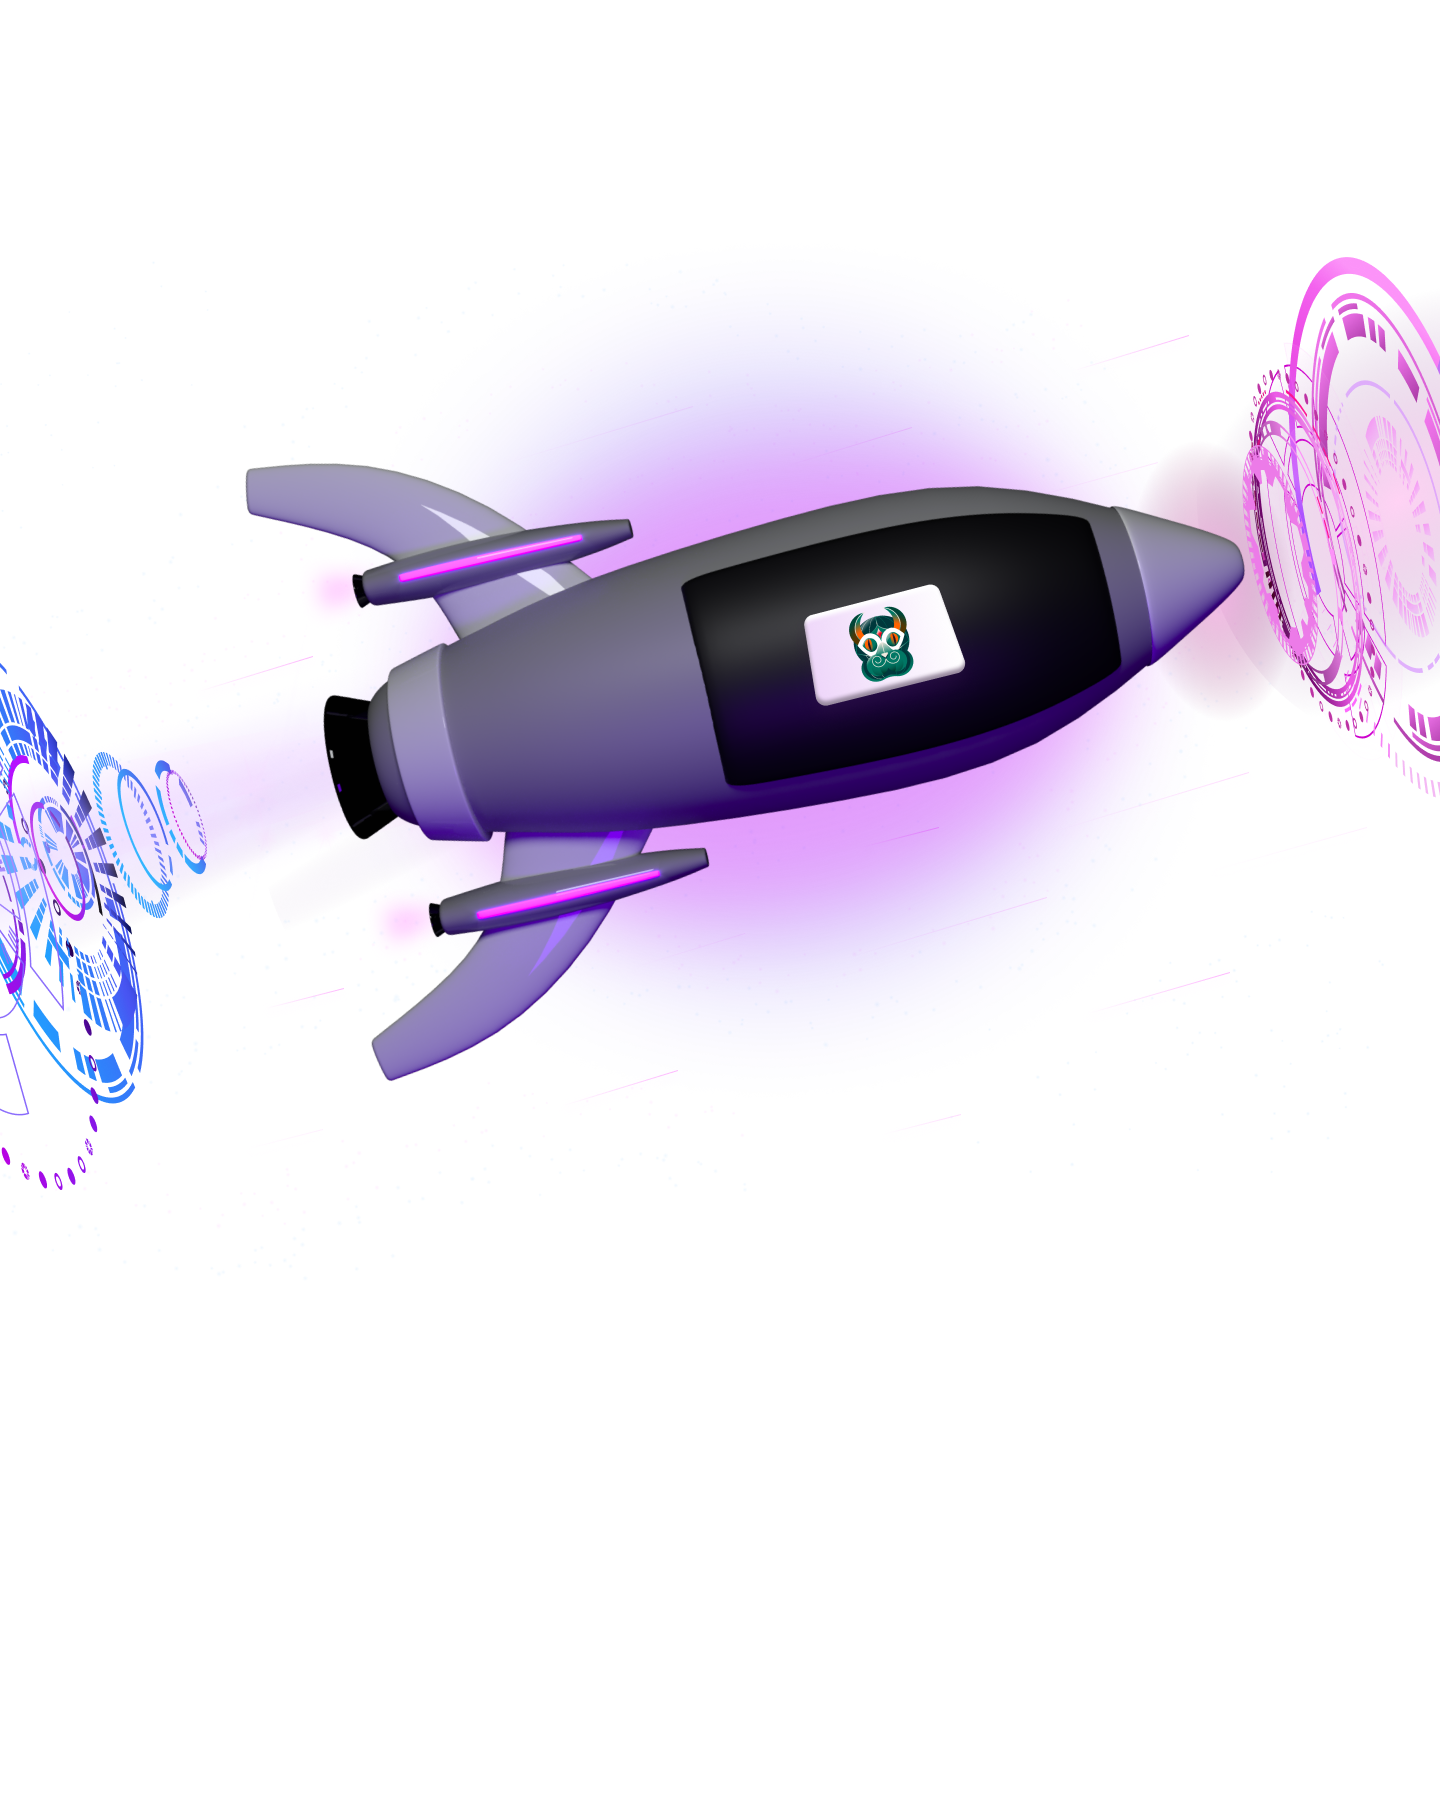
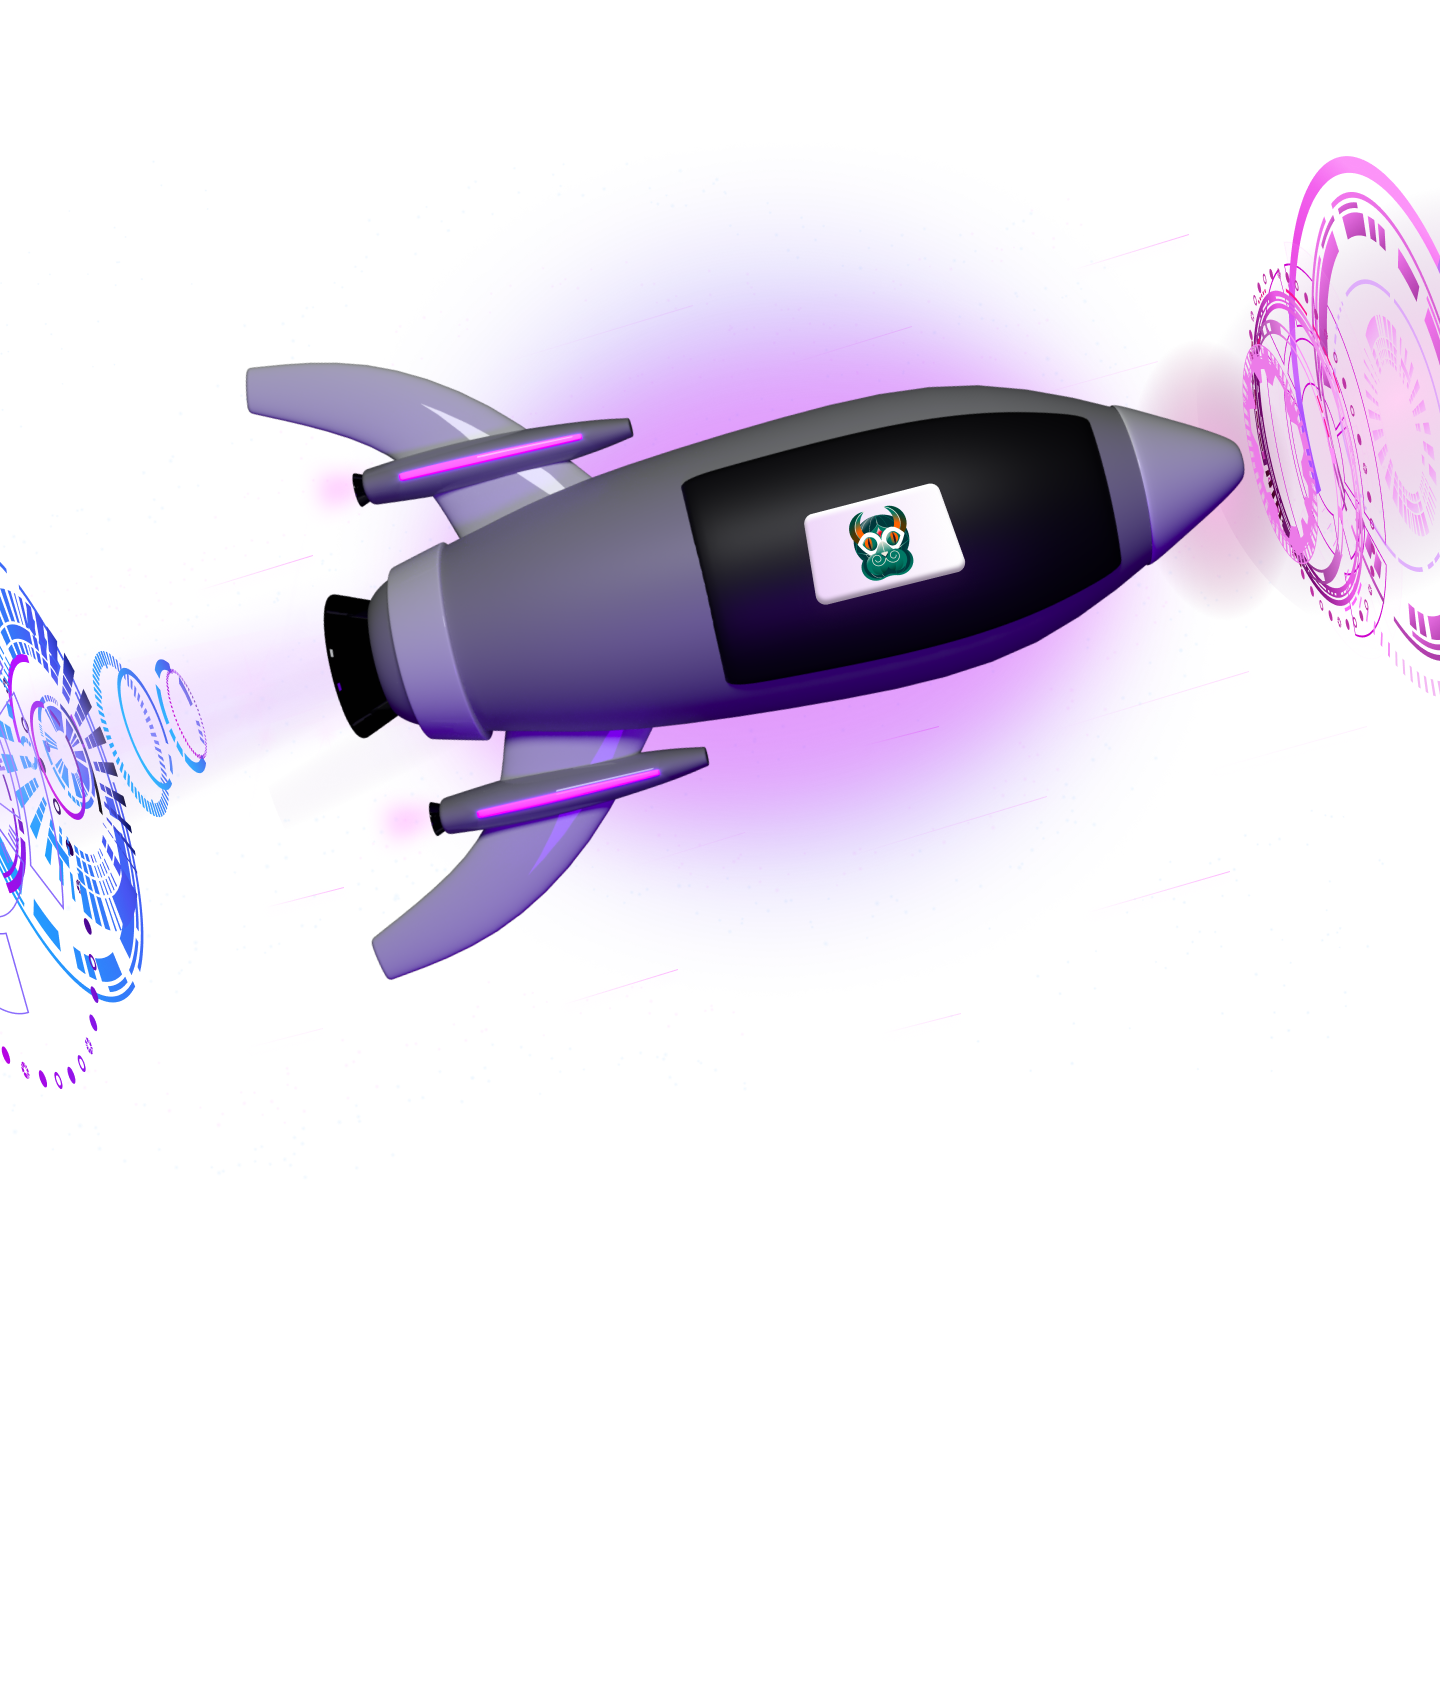
Updated rokect design

Changed region(s): [[0.0, 0.0935, 1.0, 0.6547], [0.1562, 0.3741, 0.1875, 0.4053]]

diff --git a/src/components/DrawTrade/styled.js b/src/components/DrawTrade/styled.js
@@ -42,9 +42,9 @@ export const Fullscreen = styled.div`
     }
 `
 export const DrawTradeWrapper = styled.div`
-background: url(${bg}) no-repeat;
-background-size: cover;
-background-position: center top;
+    background: url(${bg}) no-repeat;
+    background-size: cover;
+    background-position: center top;
     input.subscribe-email {
         width: 50%;
         margin: 0 auto;
@@ -62,7 +62,6 @@ background-position: center top;
     }
 
     .rocket-section {
-        
     }
 
     .rocket-body {
@@ -91,7 +90,7 @@ background-position: center top;
         padding-top: 3rem;
         font-size: 1rem;
         line-height: 25px;
-        color: rgba(255,255,255, 0.75);
+        color: rgba(255, 255, 255, 0.75);
     }
     .rocket-buttons {
         // position: absolute;
@@ -100,7 +99,7 @@ background-position: center top;
         // transform: translateX(-50%);
     }
     .rocket-buttons .actions {
-        margin-top: 26vw;
+        margin-top: 20vw;
         margin-left: -10vw;
     }
     .rocket-buttons .actions img {
@@ -113,7 +112,7 @@ background-position: center top;
             margin-top: -5rem;
         }
         .rocket-buttons .actions {
-            margin-top: 31vw;
+            margin-top: 24vw;
         }
         .rocket-buttons .actions img {
             width: 120px;

diff --git a/src/App.css b/src/App.css
@@ -164,15 +164,6 @@ section .terms-content {
     line-height: 25px;
     color: rgba(255, 255, 255, 0.75);
 }
-.rocket-buttons {
-    position: absolute;
-    top: 22rem;
-    left: 50%;
-    transform: translateX(-50%);
-}
-.rocket-buttons .actions img {
-    cursor: pointer;
-}
 .video-card {
     /* background: black;
     width: 100vw;
